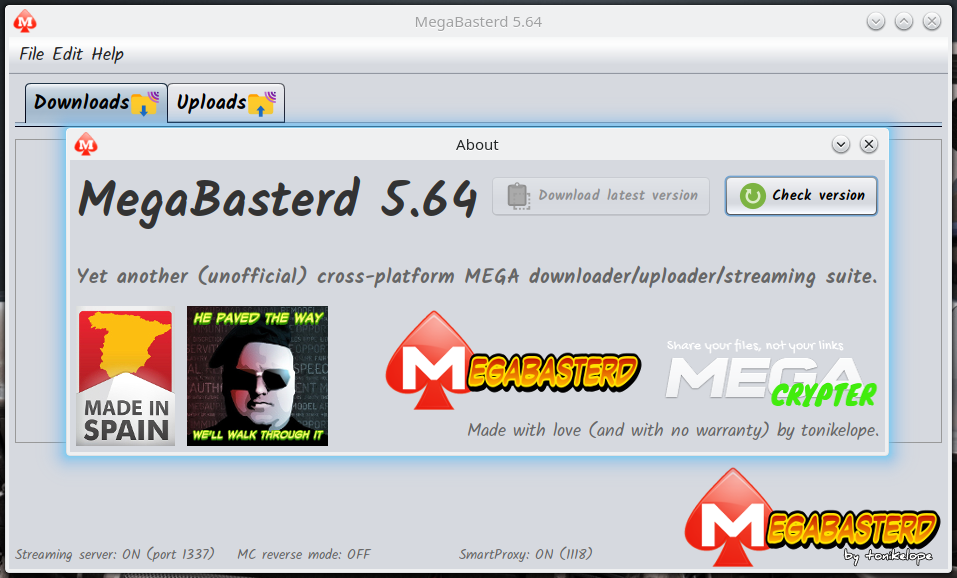
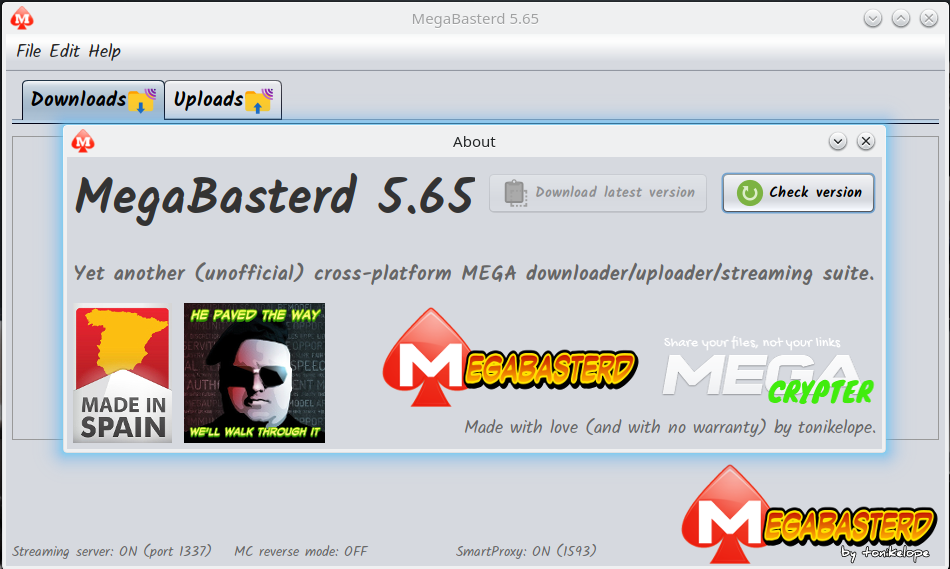
5.65
-FIX DOWNLOAD BUG

diff --git a/src/main/java/com/tonikelope/megabasterd/ChunkDownloader.java b/src/main/java/com/tonikelope/megabasterd/ChunkDownloader.java
@@ -101,13 +101,13 @@ public class ChunkDownloader implements Runnable, SecureSingleThreadNotifiable {
 
         try {
 
-            int http_error = 0, conta_error = 0;
+            int http_error = 0, conta_error = 0, http_status = -1;
 
-            boolean timeout, chunk_error = false, slow_proxy = false;
+            boolean timeout, chunk_error, slow_proxy = false;
 
             String worker_url = null, current_smart_proxy = null;
 
-            long init_chunk_time = -1, finish_chunk_time = -1, pause_init_time = -1, paused = 0L;
+            long init_chunk_time = -1, finish_chunk_time = -1, pause_init_time, paused = 0L;
 
             while (!_exit && !_download.isStopped()) {
 
@@ -218,7 +218,7 @@ public class ChunkDownloader implements Runnable, SecureSingleThreadNotifiable {
 
                     if (!_exit && !_download.isStopped()) {
 
-                        int reads = 0, http_status = con.getResponseCode();
+                        http_status = con.getResponseCode();
 
                         if (http_status != 200) {
 
@@ -248,7 +248,9 @@ public class ChunkDownloader implements Runnable, SecureSingleThreadNotifiable {
 
                                         paused = 0L;
 
-                                        while (!_exit && !_download.isStopped() && !_download.getChunkmanager().isExit() && chunk_reads < chunk_size && (reads = is.read(buffer)) != -1) {
+                                        int reads = 0;
+
+                                        while (!_exit && !_download.isStopped() && !_download.getChunkmanager().isExit() && chunk_reads < chunk_size && (reads = is.read(buffer, 0, Math.min((int) (chunk_size - chunk_reads), buffer.length))) != -1) {
 
                                             tmp_chunk_file_os.write(buffer, 0, reads);
 

diff --git a/src/main/java/com/tonikelope/megabasterd/ChunkDownloaderMono.java b/src/main/java/com/tonikelope/megabasterd/ChunkDownloaderMono.java
@@ -134,7 +134,7 @@ public class ChunkDownloaderMono extends ChunkDownloader {
 
                             int reads = 0;
 
-                            while (!getDownload().isStopped() && chunk_reads < chunk_size && (reads = cis.read(buffer, 0, Math.min(Math.min((int) (chunk_size - chunk_reads), (int) (getDownload().getFile_size() - (bytes_downloaded + chunk_reads))), buffer.length))) != -1) {
+                            while (!getDownload().isStopped() && chunk_reads < chunk_size && (reads = cis.read(buffer, 0, Math.min((int) (chunk_size - chunk_reads), buffer.length))) != -1) {
 
                                 getDownload().getOutput_stream().write(buffer, 0, reads);
 

diff --git a/src/main/java/com/tonikelope/megabasterd/MiscTools.java b/src/main/java/com/tonikelope/megabasterd/MiscTools.java
@@ -280,7 +280,17 @@ public final class MiscTools {
 
             Font new_font = font.deriveFont(old_font.getStyle(), Math.round(old_font.getSize() * zoom_factor));
 
-            component.setFont(new_font);
+            boolean error;
+
+            do {
+                try {
+                    component.setFont(new_font);
+                    error = false;
+                } catch (Exception ex) {
+                    error = true;
+                }
+            } while (error);
+
         }
     }
 

diff --git a/src/main/java/com/tonikelope/megabasterd/MainPanel.java b/src/main/java/com/tonikelope/megabasterd/MainPanel.java
@@ -47,7 +47,7 @@ import javax.swing.UIManager;
  */
 public final class MainPanel {
 
-    public static final String VERSION = "5.64";
+    public static final String VERSION = "5.65";
     public static final int THROTTLE_SLICE_SIZE = 16 * 1024;
     public static final int DEFAULT_BYTE_BUFFER_SIZE = 16 * 1024;
     public static final int STREAMER_PORT = 1337;
